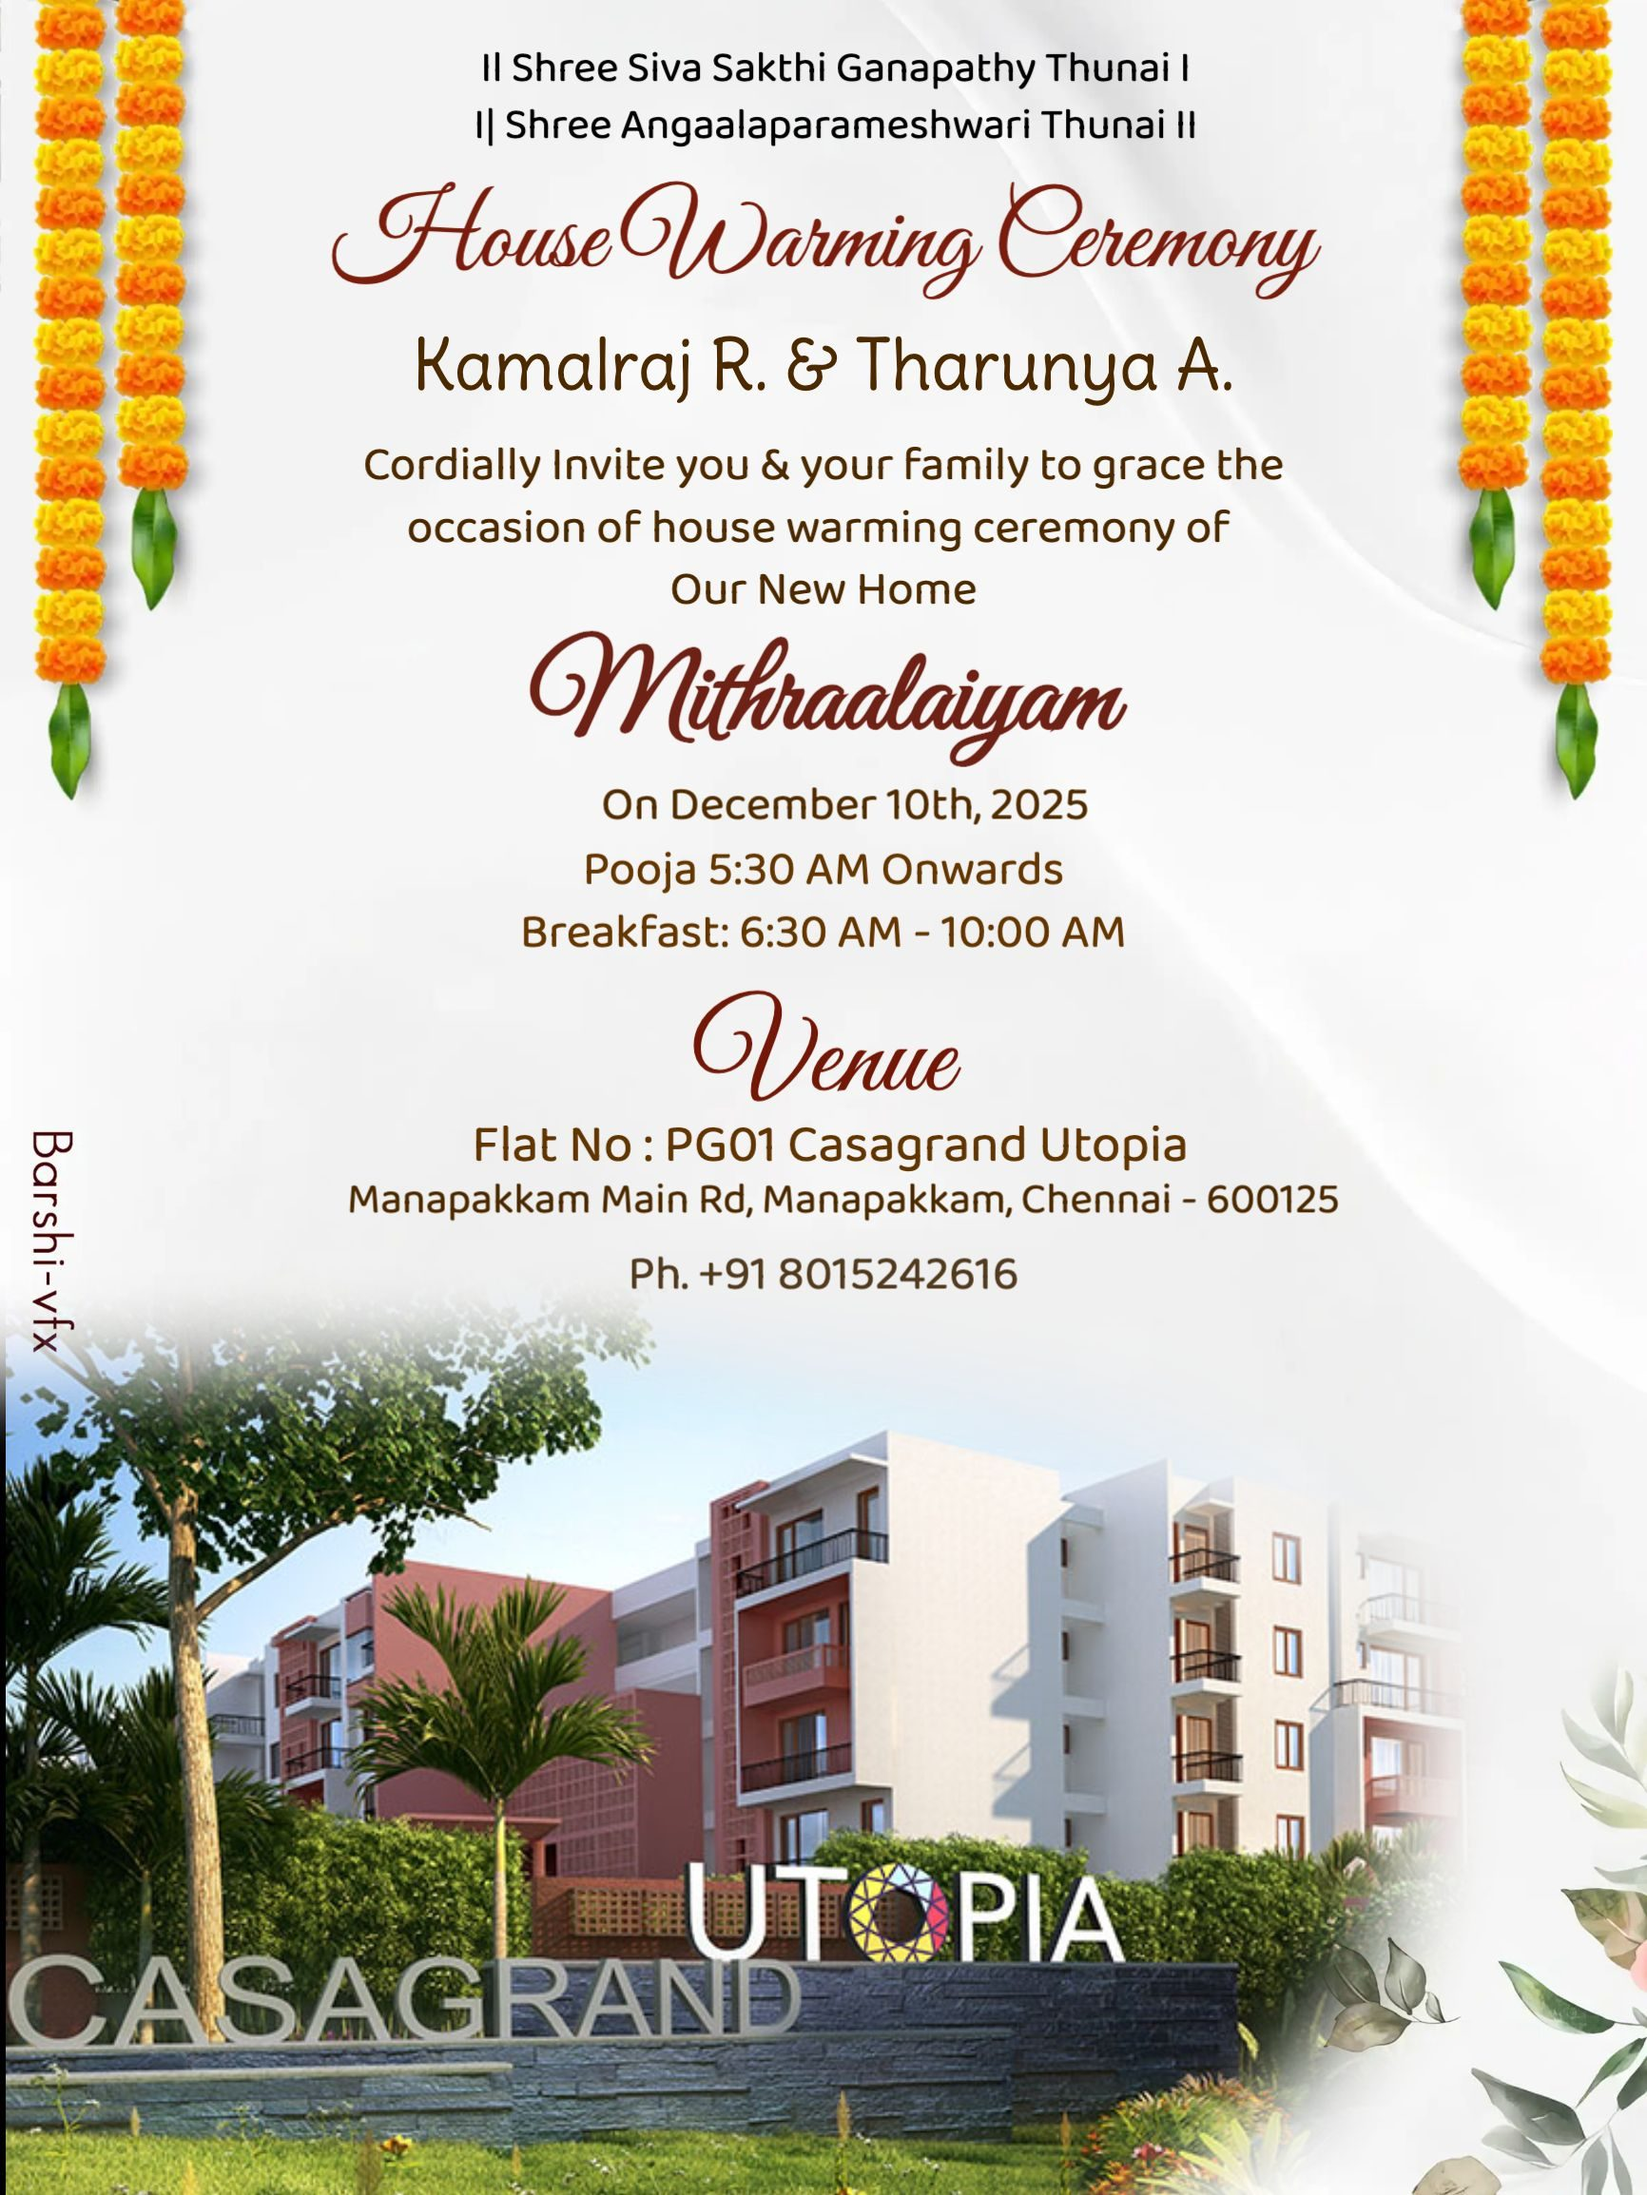
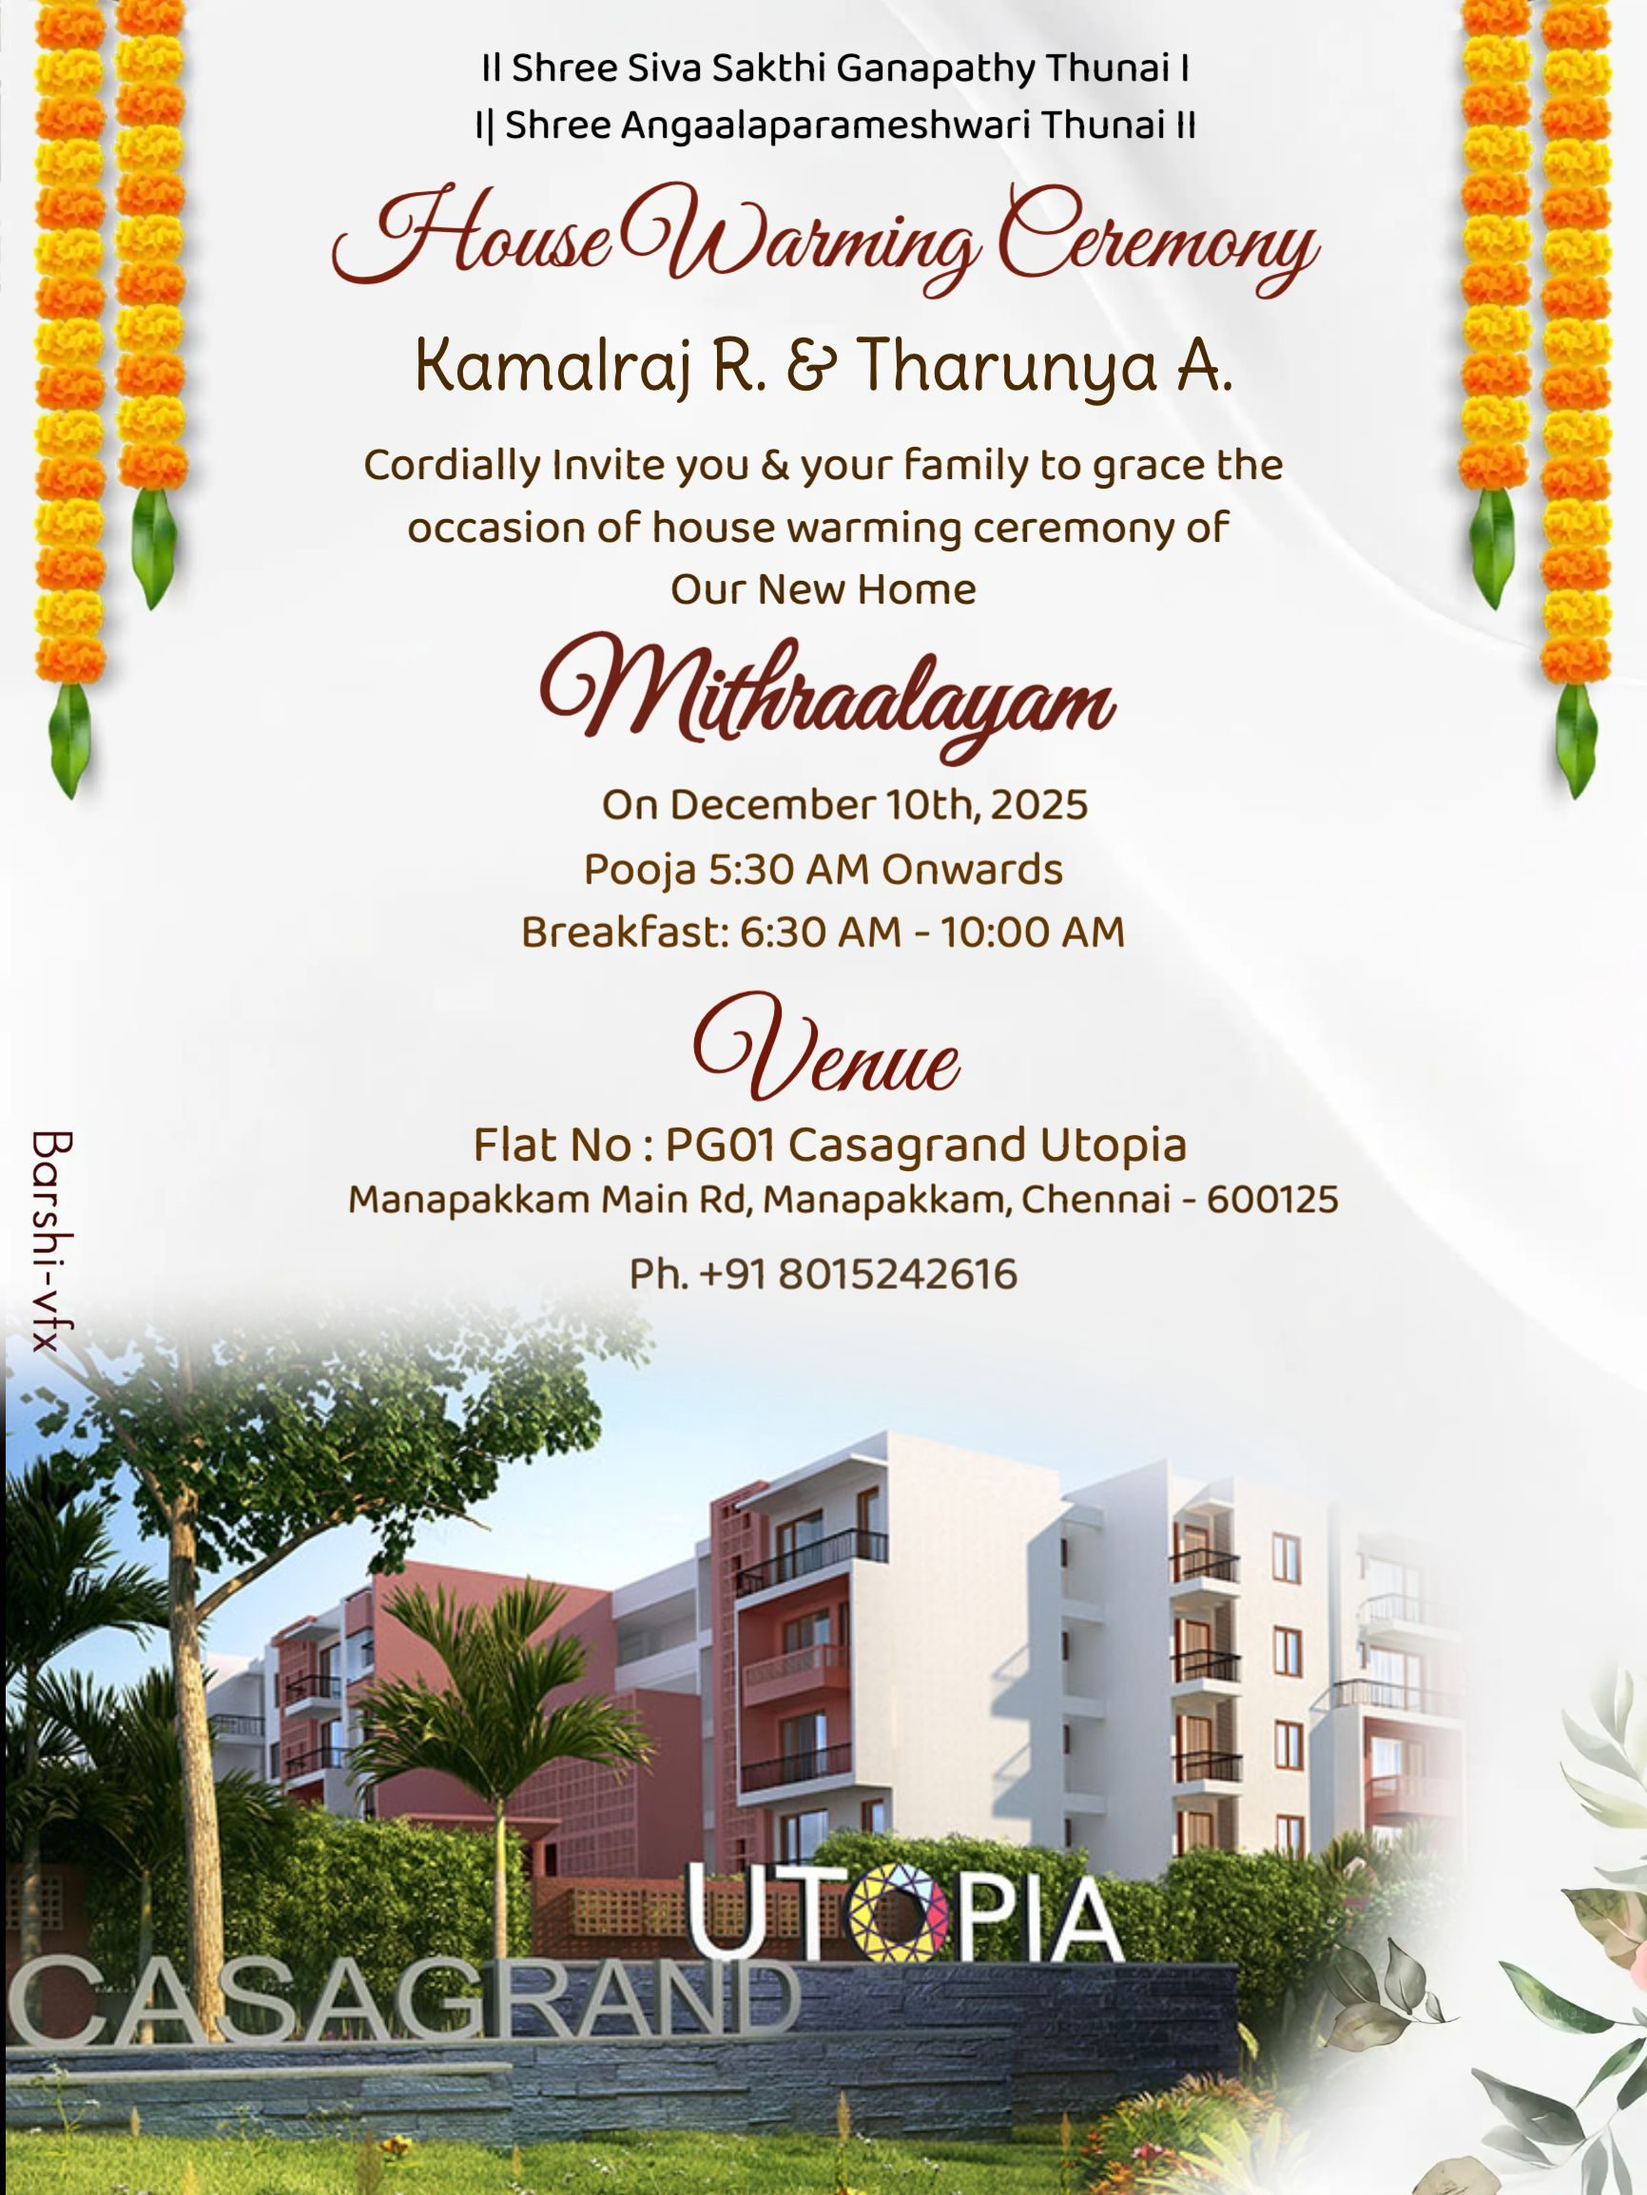
HouseName change
HouseName change to Mithraalayam

Changed region(s): [[0.3118, 0.2806, 0.6859, 0.3742]]

diff --git a/index.html b/index.html
@@ -15,7 +15,7 @@
             <p class="invitation-text">You're Invited to Our New House!</p>
             
             <!-- House name positioned lower on mobile via CSS to avoid overlap -->
-            <h1 class="house-name-hero">&#128525; Mithraalaiyam &#128525;</h1>
+            <h1 class="house-name-hero">&#128525; Mithraalayam &#128525;</h1>
         </div>
     </header>
 
@@ -80,7 +80,7 @@
         <h2>📍 Find Our Home</h2>
         <!-- House name font size controlled by .location-house-name class (made bigger) -->
         <p class="location-text">
-            <span class="location-house-name">"Mithraalaiyam"</span> <br/>
+            <span class="location-house-name">"Mithraalayam"</span> <br/>
             Flat PG01, Block 4, Casagrand Utopia, Manapakkam, Chennai - 600125, Tamilnadu.
             <p><u><i>Heads up: Traffic on Manapakkam Main Rd. is heavy, so please plan to arrive early.</i></u></p>
         </p>
